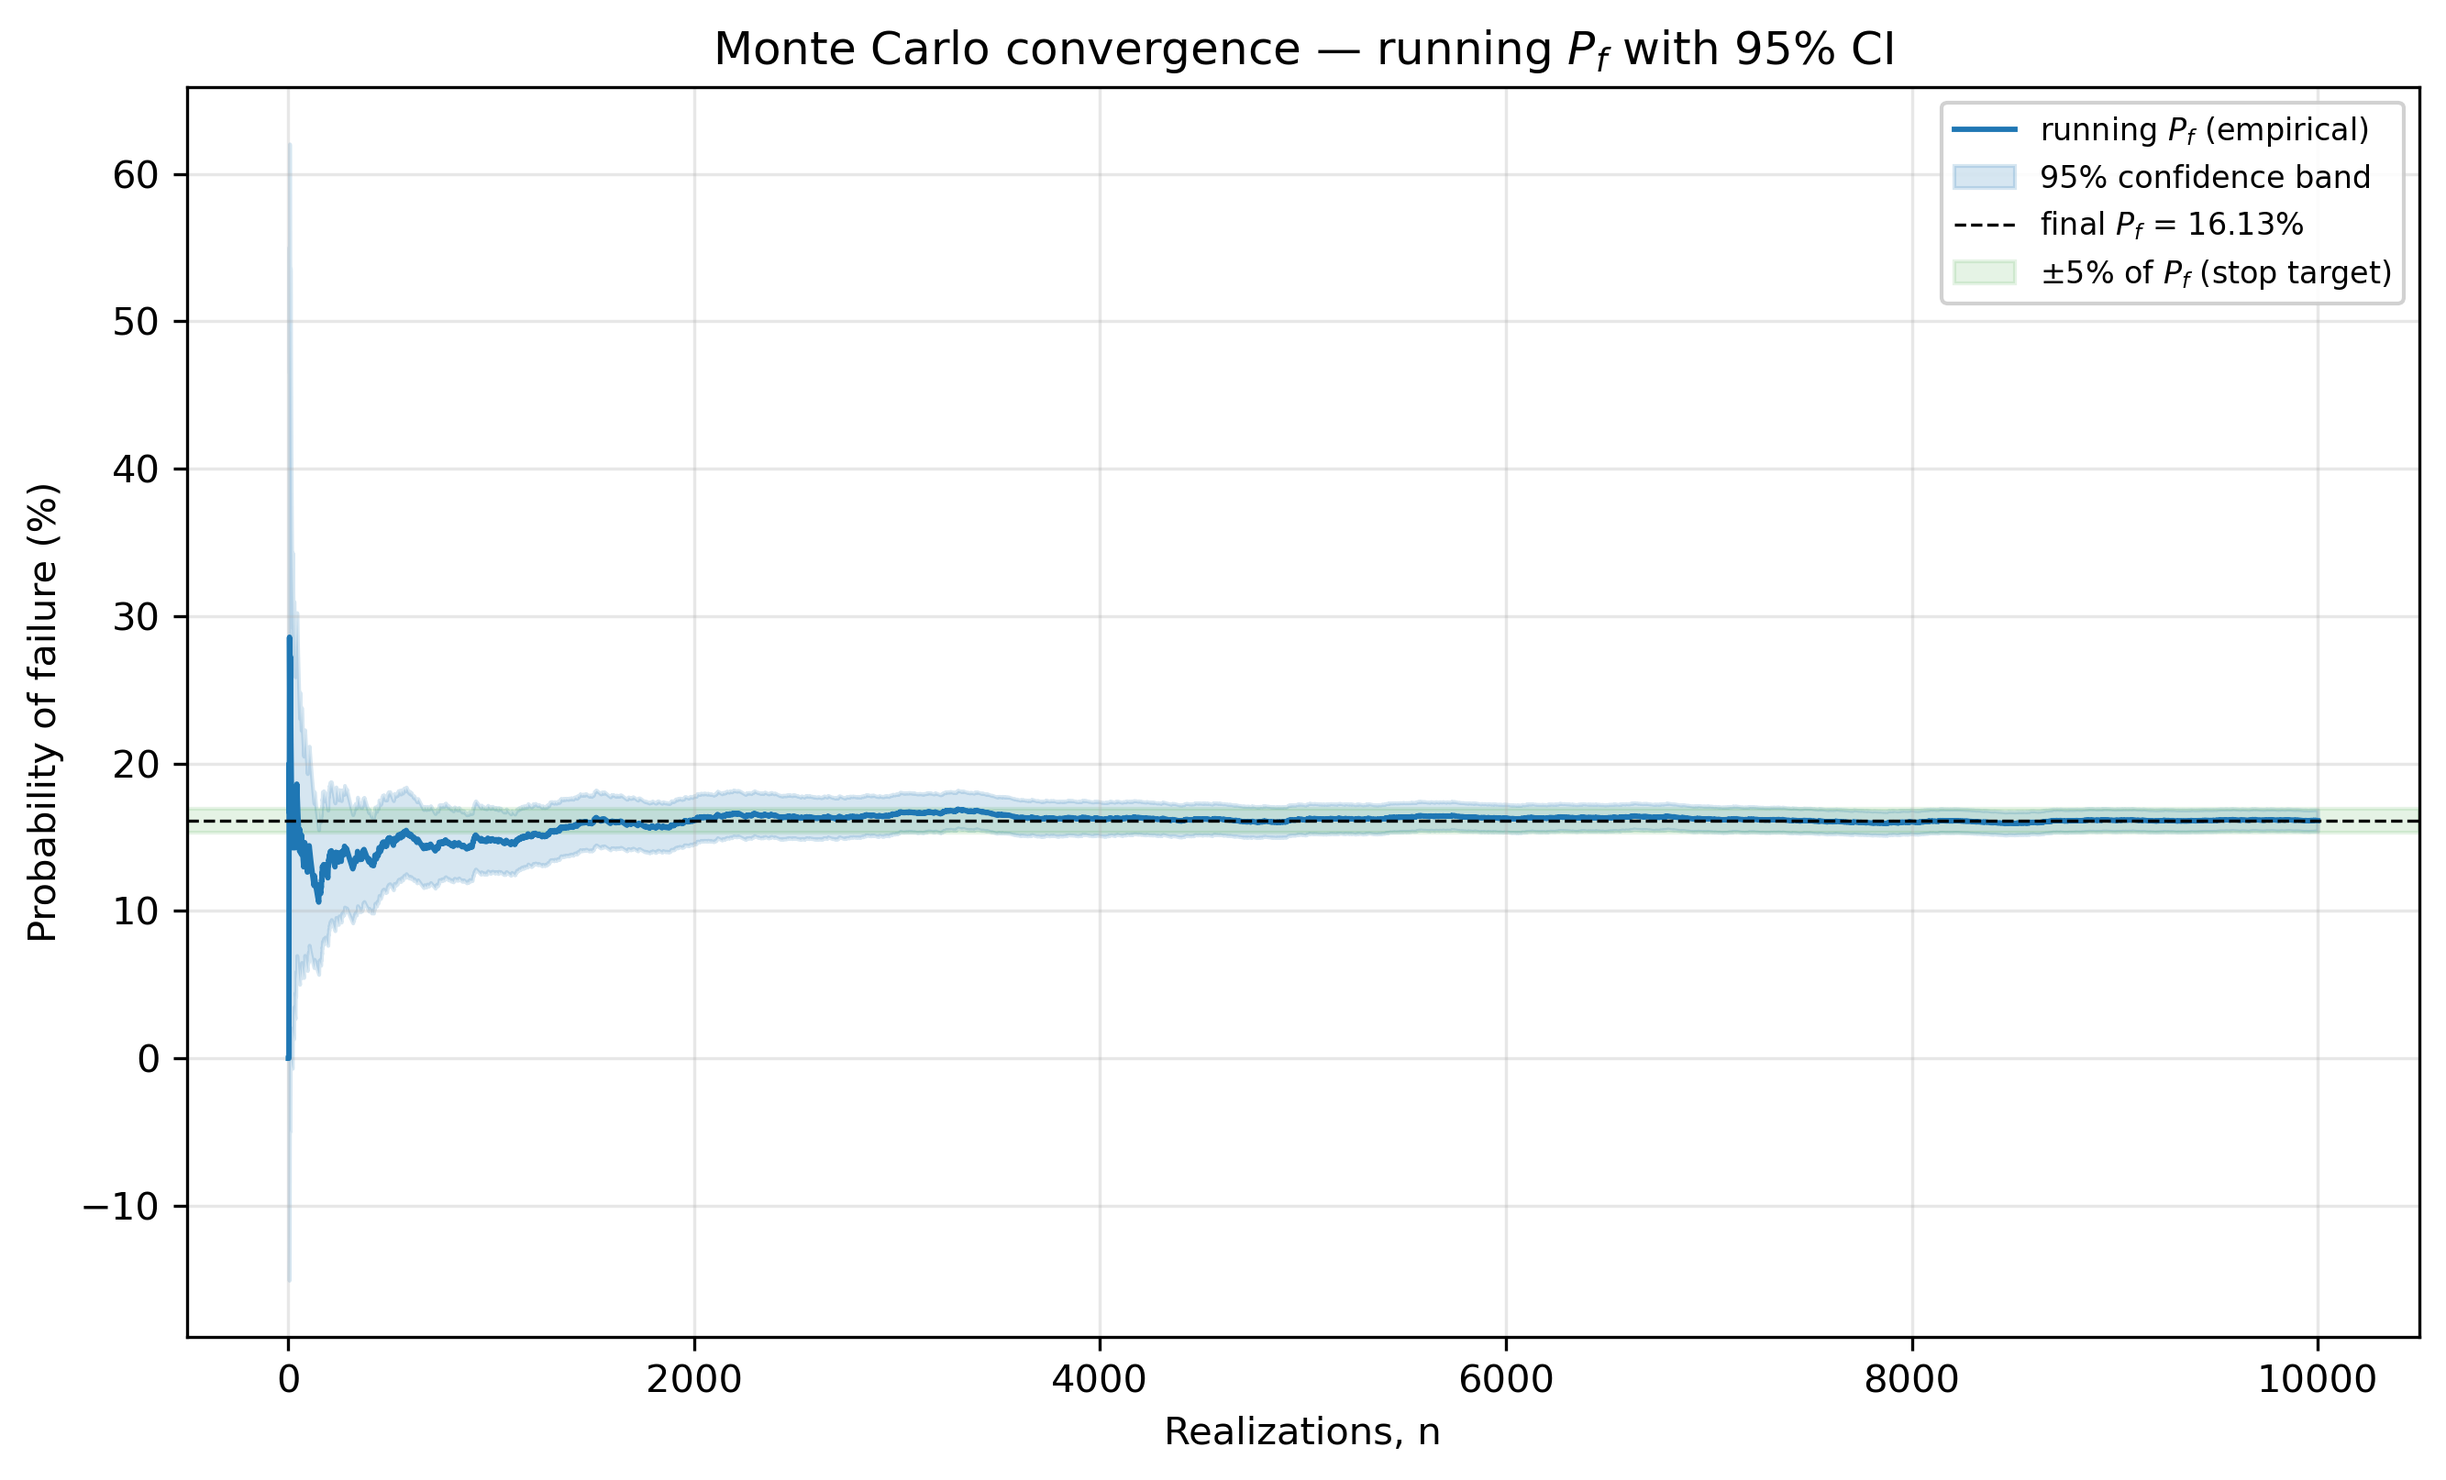
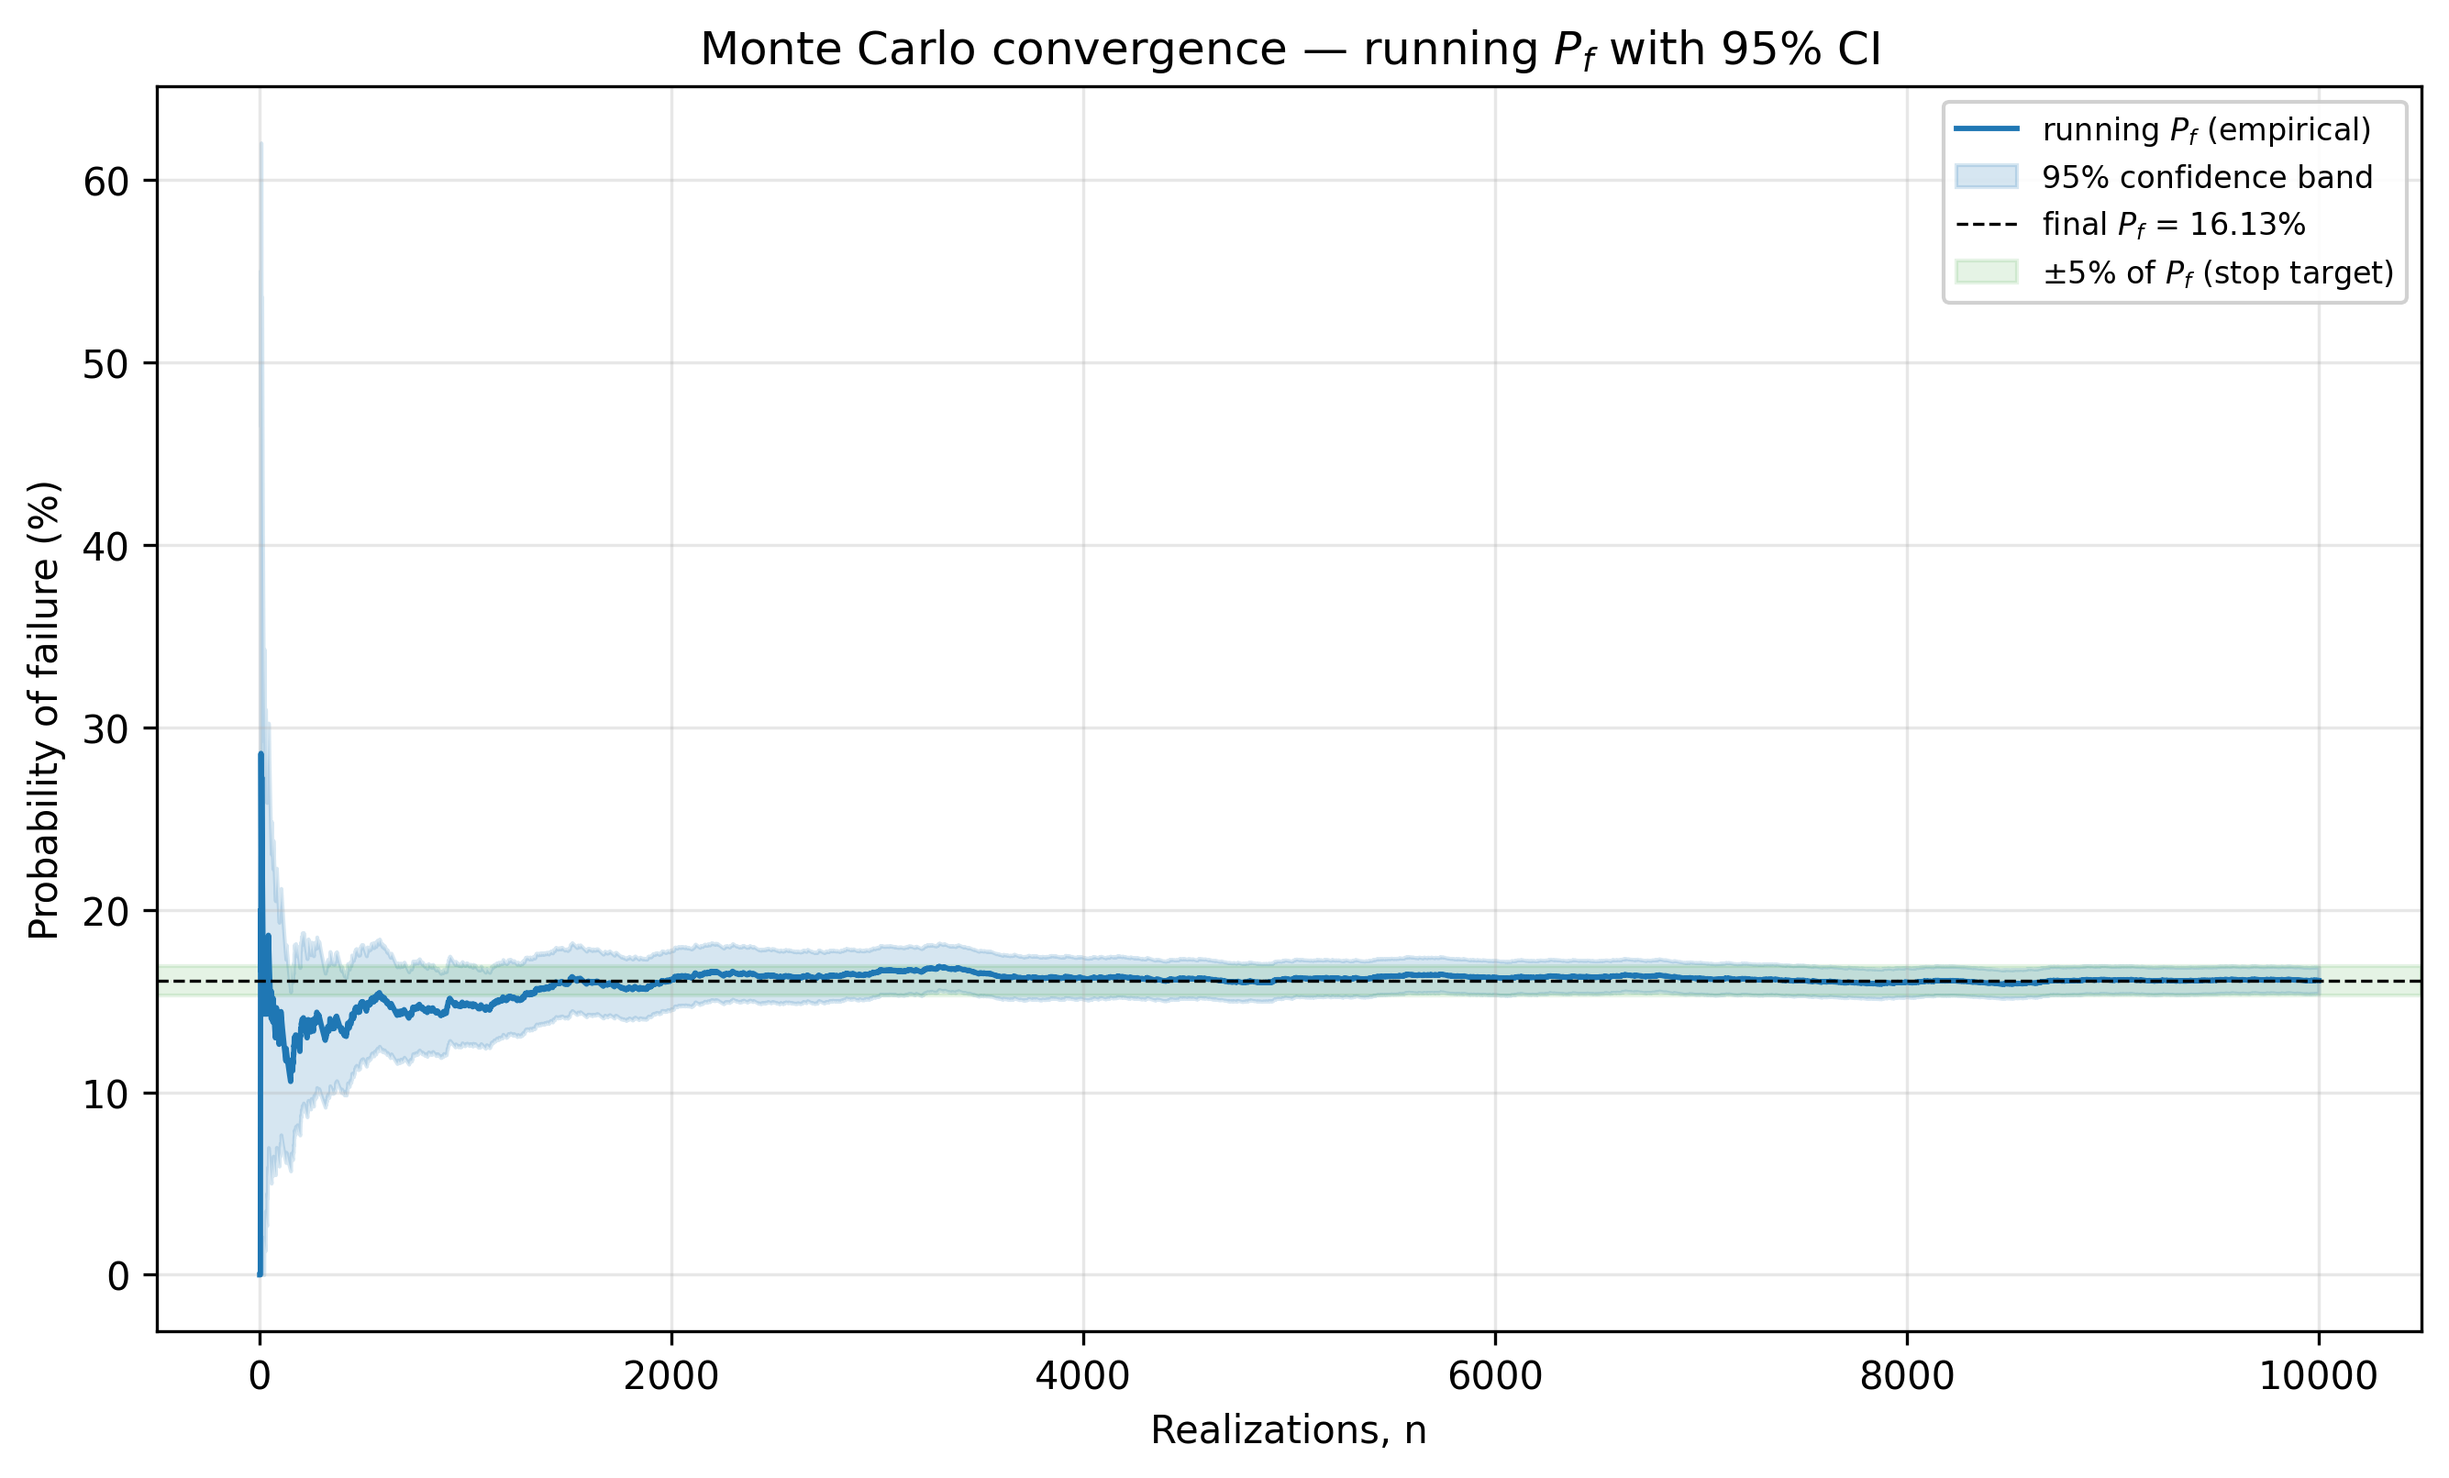
Monte Carlo convergence plot: the 95% band is cut off at 0% and 100% (over the first few realizations the interval ran to about -15%, and a probability cannot); the Monte Carlo page's figure redrawn, same run, P_f 16.13% (Norm, 571a)
Claude-Session: https://claude.ai/code/session_01XjjT2aBxw8gY7EFdpoUcpj

diff --git a/xslope/plot.py b/xslope/plot.py
@@ -4550,7 +4550,9 @@ def plot_reliability_convergence(result, figsize=(9, 5.5), save_png=False,
     Monte Carlo samples the histogram draws.
 
     The line is the cumulative empirical P_f after each realization; the band is
-    its 95% confidence interval, 1.96·sqrt(p(1-p)/n). The plot is readable off
+    its 95% confidence interval, 1.96·sqrt(p(1-p)/n), cut off at 0% and 100%:
+    over the first few realizations that interval runs past both, and a
+    probability cannot. The plot is readable off
     ANY :func:`xslope.reliability.reliability_mc` result — the running estimate
     is recomputed from ``fs_samples`` in order, so a run made without the
     convergence option still shows how (and whether) its answer settled. When
@@ -4574,7 +4576,8 @@ def plot_reliability_convergence(result, figsize=(9, 5.5), save_png=False,
     half = 1.96 * np.sqrt(np.maximum(p * (1 - p), 0.0) / np.maximum(valid, 1))
     ax.plot(n, p * 100, color='tab:blue', lw=1.4,
             label='running $P_f$ (empirical)')
-    ax.fill_between(n, (p - half) * 100, (p + half) * 100, color='tab:blue',
+    ax.fill_between(n, np.clip(p - half, 0.0, 1.0) * 100,
+                    np.clip(p + half, 0.0, 1.0) * 100, color='tab:blue',
                     alpha=0.18, label='95% confidence band')
     p_final = p[-1] if samples.size else float('nan')
     ax.axhline(p_final * 100, color='k', lw=0.8, ls='--',
